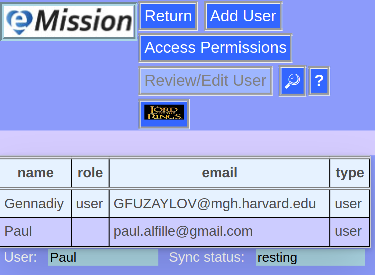
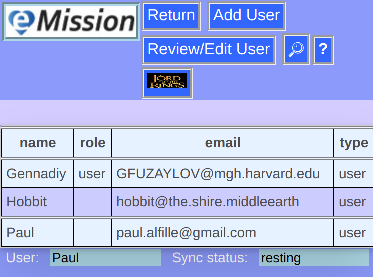
Remove "Access" -- doesn't work ad code would be contorted Update Help as well

diff --git a/js/app.js b/js/app.js
@@ -286,23 +286,6 @@ const structNewUser = [
     }
 ];
 
-const structAccess = [
-    {
-        name: "name",
-        alias: "Users",
-        hint: "Regular users with access",
-        type: "checkbox",
-        userlist: "name",
-    },
-    {
-        name: "admin",
-        alias: "Administrators",
-        hint: "Administrative users with access",
-        type: "checkbox",
-        userlist: "name",
-    },
-];
-
 const structEditUser = [
     {
         name: "name",
@@ -876,8 +859,6 @@ class PatientDataRaw { // singleton class
                 choices = Promise.resolve(item.choices) ;
             } else if ( "query" in item ) {
                 choices = db.query(item.query,{group:true,reduce:true}).then( q=>q.rows.map(qq=>qq.key).filter(c=>c.length>0) ) ;
-            } else if ( "userlist" in item ) {
-                choices = User.getAll(true).then( u=>u.rows.map(r=>r.doc[item.userlist]) ) ;
             }
 
             // get value and make type-specific input field with filled in value
@@ -1186,11 +1167,11 @@ class PatientDataRaw { // singleton class
                             .map(i=>i.value)[0];
                         break;
                     case "datetime":
-						try {
-							postVal = new Date(flatpickr.parseDate(li.querySelector("input").value, "Y-m-d h:i K")).toISOString();
-						} catch {
-							postVal="";
-						}
+                        try {
+                            postVal = new Date(flatpickr.parseDate(li.querySelector("input").value, "Y-m-d h:i K")).toISOString();
+                        } catch {
+                            postVal="";
+                        }
                         break;
                     case "checkbox":
                         postVal = [...document.getElementsByName(localname)]
@@ -1717,13 +1698,13 @@ class Note { // convenience class
         // Check patient existence
         db.get(nid)
         .then( doc => {
-			if ( doc.patient_id != patientId ) {
-				Patient.select( doc.patient_id);
-			}
-			Cookie.set( "noteId", nid );
-			})
-		.catch( err => console.log(err.message));
-``	            
+            if ( doc.patient_id != patientId ) {
+                Patient.select( doc.patient_id);
+            }
+            Cookie.set( "noteId", nid );
+            })
+        .catch( err => console.log(err.message));
+``              
         if ( objectPage.test("NoteList") || objectPage.test("MissionList")) {
             // highlight the list row
             let li = document.getElementById("NoteList").getElementsByTagName("li");
@@ -1830,17 +1811,17 @@ class Operation { // convenience class
         // Check patient existence
         db.get(oid)
         .then( doc => {
-			if ( doc.patient_id != patientId ) {
-				Patient.select( doc.patient_id);
-			}
-			Cookie.set ( "operationId", oid  );
-			// highlight the list row
-			if ( objectPage.test('OperationList') || objectPage.test('AllOperations')  ) {
-				objectTable.highlight();
-			}
-			document.getElementById("editreviewoperation").disabled = false;
-			})
-		.catch( err => console.log(err.message));``	            
+            if ( doc.patient_id != patientId ) {
+                Patient.select( doc.patient_id);
+            }
+            Cookie.set ( "operationId", oid  );
+            // highlight the list row
+            if ( objectPage.test('OperationList') || objectPage.test('AllOperations')  ) {
+                objectTable.highlight();
+            }
+            document.getElementById("editreviewoperation").disabled = false;
+            })
+        .catch( err => console.log(err.message));``             
     }
 
     static unselect() {
@@ -2326,7 +2307,6 @@ class Page { // singleton class
             "SuperUser",
             "UserList",
 //            "UserNew",
-//            "Access",
 //            "UserEdit",
 //            "SendUser",
             "AllPatients",
@@ -2394,11 +2374,11 @@ class Page { // singleton class
         } else {
             let iop = this.path.indexOf( page ) ;
             if ( iop < 0 ) {
-				// add to from of page list
+                // add to from of page list
                 this.path.unshift( page ) ;
                 Cookie.set ( "displayState", this.path ) ;
             } else {
-				// trim page list back to prior occurence of this page (no loops, finite size)
+                // trim page list back to prior occurence of this page (no loops, finite size)
                 this.path = this.path.slice( iop ) ;
                 Cookie.set ( "displayState", this.path ) ;
             }
@@ -2418,7 +2398,7 @@ class Page { // singleton class
     } 
         
     show( state = "AllPatients" ) { // main routine for displaying different "pages" by hiding different elements
-		console.log(state);
+        console.log(state);
         Page.show_screen( "screen" );
         this.next(state) ;
 
@@ -2444,7 +2424,7 @@ class Page { // singleton class
             case "Administration":
             case "Download":
             case "Settings":
-				// Pure menus
+                // Pure menus
                 break;
                 
             case "RemoteDatabaseInput":
@@ -2479,19 +2459,6 @@ class Page { // singleton class
                 }
                 break;
 
-            case "Access":
-                if ( User.db == null ) {
-                    this.show( "SuperUser" );
-                } else {
-                    security_db.get("_security")
-                    .then( doc => objectPatientData = new AccessData( doc, structAccess ) )
-                    .catch ( err => {
-                        console.log(err);
-                        this.show( "SuperUser" ) ;
-                        });
-                }
-                break ;
-                
             case "UserEdit":
                 if ( User.db == null ) {
                     this.show( "SuperUser" );
@@ -2558,34 +2525,34 @@ class Page { // singleton class
                 
             case "AllOperations":
             {
-				Patient.unselect();
-				let last_pid = "" ;
-				let rlist;
-				Operation.getAll()
-				.then( doclist =>  
-						doclist.rows.
-						filter( r=> { 
-							if ( r.doc.patient_id !== last_pid ) {
-								last_pid = r.doc.patient_id;
-								return true ;
-							} else {
-								return r.doc.Procedure == "Enter new procedure";
-							}
-							})
-					)
-				.then( doclist => {
-					rlist = doclist ;
-					return db.query( "Pid2Name",{keys:rlist.map(r=>r.doc.patient_id),});
-					})	
-				.then( nlist => {
+                Patient.unselect();
+                let last_pid = "" ;
+                let rlist;
+                Operation.getAll()
+                .then( doclist =>  
+                        doclist.rows.
+                        filter( r=> { 
+                            if ( r.doc.patient_id !== last_pid ) {
+                                last_pid = r.doc.patient_id;
+                                return true ;
+                            } else {
+                                return r.doc.Procedure == "Enter new procedure";
+                            }
+                            })
+                    )
+                .then( doclist => {
+                    rlist = doclist ;
+                    return db.query( "Pid2Name",{keys:rlist.map(r=>r.doc.patient_id),});
+                    })  
+                .then( nlist => {
                     objectTable = new OperationTable( [ "Procedure", "Surgeon", "Name", "Date-Time" ]  );
-					rlist.forEach((r,i)=>r.doc.Name=nlist.rows[i].value[0]);
-					objectTable.fill(rlist);
-					})
-				.catch( err=>console.log(err) )
-					;
+                    rlist.forEach((r,i)=>r.doc.Name=nlist.rows[i].value[0]);
+                    objectTable.fill(rlist);
+                    })
+                .catch( err=>console.log(err) )
+                    ;
                 break;
-			}
+            }
                 
             case "OperationNew":
                 if ( Patient.isSelected() ) {

diff --git a/index.html b/index.html
@@ -54,7 +54,6 @@
                     <div class="UserList topButtons pageOverlay">
                         <button type="button" class="divbutton" onclick="objectPage.show( 'back' )">Return</button>
                         <button type="button" class="divbutton" onclick="objectPage.show( 'UserNew' )" title="Add a new database user">Add User</button>
-                        <button type="button" class="divbutton" onclick="objectPage.show( 'Access' )" title="Set user\'s access rights">Access Permissions</button>
                         <button type="button" class="divbutton" onclick="objectPage.show( 'UserEdit' )" id="editreviewuser" title="Edit user's data/password">Review/Edit User</button>
                     </div>
                     <!-- top: AllOperations -->
@@ -78,8 +77,8 @@
                         <button type="button" class="divbutton edit_data">Edit</button>
                         <button type="button" class="divbutton discarddata return" onclick="objectPage.show( 'back' )" title="Discard changes">Cancel</button>
                     </div>
-                    <!-- top: UserNew Access -->
-                    <div class="PatientData UserNew Access topButtons pageOverlay">
+                    <!-- top: UserNew -->
+                    <div class="PatientData UserNew topButtons pageOverlay">
                         <button type="button" class="divbutton edit_data">Edit</button>
                         <button type="button" class="divbutton return" onclick="objectPage.show( 'back' )">Cancel</button>
                     </div>
@@ -203,8 +202,8 @@
                     <table id="OperationsList"></table>
                 </div>
             </div>
-            <!-- body: PatientNew PatientDemographics PatientMedical OperationEdit RemoteDatabaseInput DatabaseInfo SuperUser UserNew UserEdit Access MissionInfo -->
-            <div class="PatientData PatientNew PatientDemographics PatientMedical OperationEdit RemoteDatabaseInput DatabaseInfo SuperUser UserNew UserEdit Access MissionInfo pageOverlay">
+            <!-- body: PatientNew PatientDemographics PatientMedical OperationEdit RemoteDatabaseInput DatabaseInfo SuperUser UserNew UserEdit MissionInfo -->
+            <div class="PatientData PatientNew PatientDemographics PatientMedical OperationEdit RemoteDatabaseInput DatabaseInfo SuperUser UserNew UserEdit MissionInfo pageOverlay">
                 <div id="PatientDataContent" ></div>
             </div>
             <!-- body: PatientPhoto -->

diff --git a/help/UserList.md b/help/UserList.md
@@ -15,6 +15,10 @@ After [adding a user](UserAdd.md) with the *__Add User__* button, that user will
 
 ![](../images/UserList_selected.png)
 
-The selected user can be [edited](UserEdit.md) with the *__Review/Edit User__* button, or by double-clicking or swiping left or right.
+The selected user can be 
+
+* [edited](UserEdit.md) with the *__Review/Edit User__* button
+* double-clicking
+* swiping left or right.
 
 Users can be removed in the [editing](UserEdit/md) screen as well.
